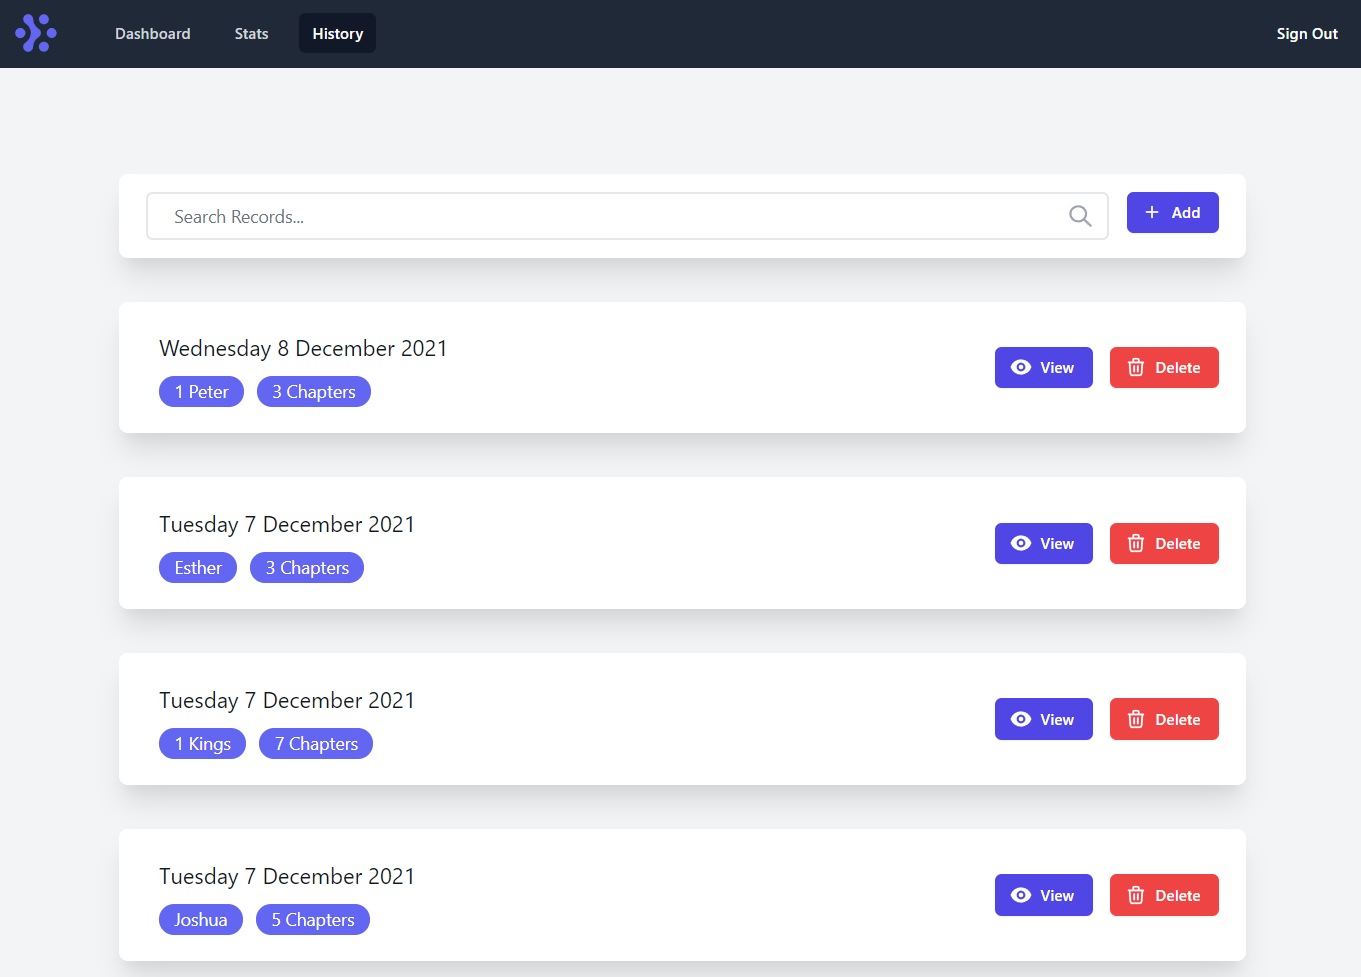
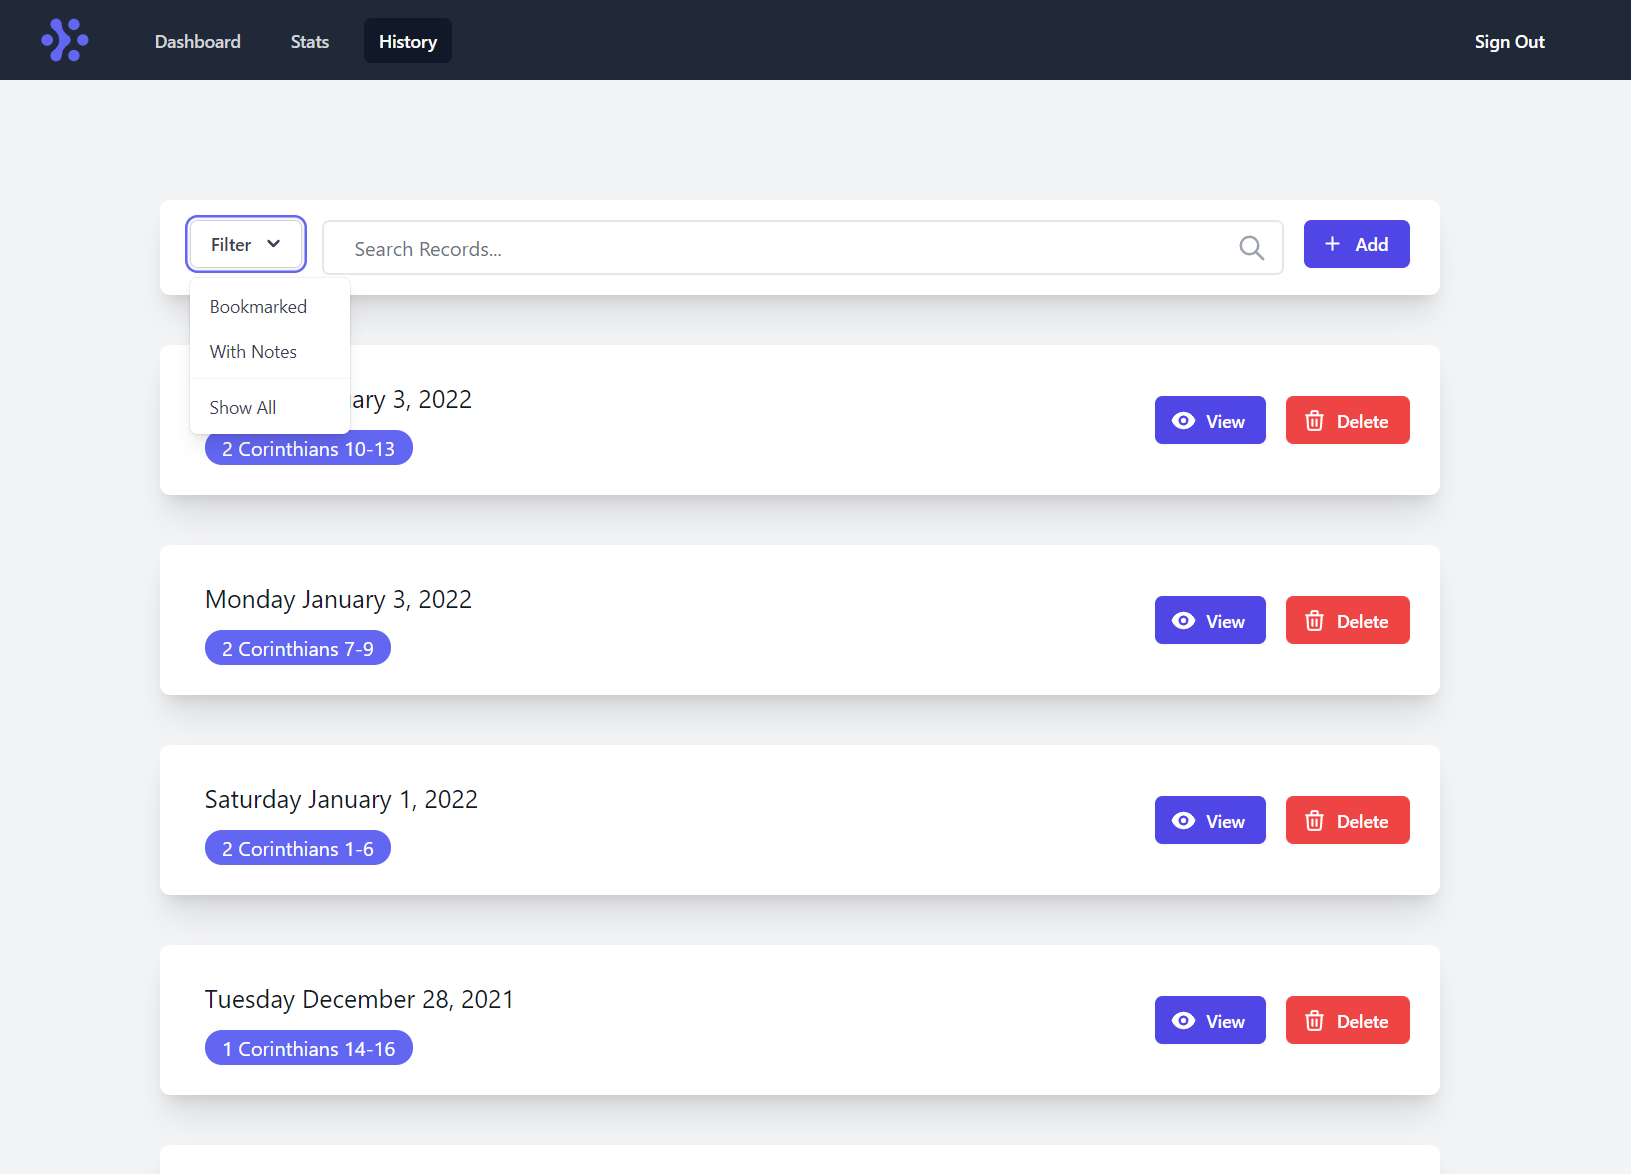
Readme & Report

diff --git a/REPORT.md b/REPORT.md
@@ -1,0 +1,160 @@
+# Verses Web Application
+Hosted Application: http://verses-eu.herokuapp.com/
+Repository: https://github.com/RyanGaudion/Verses-Node
+
+# Introduction
+As a Christian, the Bible is the most important book ever written. We believe the words within it are breathed from God himself. However, the Bible is a huge collection of 66 books split between the Old & New Testament amounting to 783,137 words.`(1)`  For context, this is over 6 times larger than the 122,189 words of Pride & Prejudice.  
+
+In addition to this, the Bible does not have to be read chronologically, making it difficult to keep track of which books and which chapters in those books you have read.  
+
+My application provides a way to keep track of your progress through the Bible and also provides statistics on your reading habits in optimise the experience of reading the entire Bible.
+
+# System Overview
+This application is built using Node.js for the backend connecting to a MongoDB database with EJS, Tailwind CSS & AlpineJS for the views.  
+
+There are 2 main parts of the application, the reading history & the stats:
+
+## History
+The history page shows a list of all records that have been entered into the system. This page is paginated using `skip` and `limit` from mongoose. 
+
+It also provides the ability to filter the page to records that are bookmarked or records that have notes. This is selected via a dropdown which in the backend executes one of 3 mongoose queries each with unique filters. This page also has the ability to search through records which works by setting up a full text index on the Record Model to search against.
+
+From this page you have the ability to "view" and "delete" each record. The view button opens a pre-populated record page which allows values to be updated whereas the delete button submits a unique form which deletes the record after showing a confirmation popup.Finally, this page provides an "Add" button to insert a new record.
+
+![History](./images/HistoryPage.png)
+
+### Record
+
+The Record page is accessible either by adding a new record or editing an existing reading record. This page includes 5 fields, 'Date', 'Book', 'Start Chapter', 'End Chapter' and 'Notes'.
+
+The Date field produces a custom Date picker which was created using AlpineJS and Tailwind CSS.
+In order for the user to enter the Book of the Bible as well as the Start & End Chapter I could have allowed free text entry, however running any type of statistics on this would be difficult. Due to the fact the Bible is immutable, the selection of Books and Chapters for those books is a fixed value that never changes.  
+
+Hence, within my database seeder I pre-populate the database with the names & sizes of each of the books of the Bible. I then created an API endpoint `/api/book/getall` which returns all this information in JSON. From my record page, I then used AlpineJS to create a custom component for selecting the Book, Start Chapter & End Chapter. This component uses the JavaScript "Fetch" method (similar to jQuery.ajax()) in order to fetch the API data without having to reload the page.
+
+This page finally has 2 buttons "Bookmark/Unbookmark" and "Save". This allows the user to bookmark certain records which they found interesting/useful. These records can then be found via the "Bookmarked" filter on the history page. In the backend this simply works by storing a bookmarked boolean on the Record Model. 
+
+![Record](./images/RecordPage.png)
+
+## Stats
+
+The stats page is split into 2 main sections, quick statistics (which provide short summaries such as how many chapters have been read in the last 30 days, or what percentage of the Bible is complete) and the monthly graph (which shows in a chart how many chapters have been read per month for the last year).
+
+These statistics are calculated using multiple complex MongoDB aggregation pipelines and are then displayed on screen via EJS. The graph also uses MongoDB aggregation for its data and then uses AlpineJS and Tailwind CSS to visualise this data into a graph. 
+
+![Stats](./images/StatsPage.png)
+
+## User
+Each reading record is a User model in order that only the current user's records are displayed to them via the history page. The user can create an account via the register page and then sign in to their account via the login page.  
+
+The user's password is not stored in the database directly, but instead uses a database model pre-hook & BCrypt in order to hash the password before it is stored in the database.  
+
+The sign in user is associated to their account via a user session which allows the application to know the current user from within every controller.
+
+![Register](./images/RegisterPage.png)
+
+# Key Design Decisions
+
+## Database Design
+This application consists of a Production and a Development MongoDB database located in MongoDb Atlas. Each of the databases have the following 3 collections:
+ - Books
+ - Records
+ - Users
+
+### Books 
+The books collection stores information about each book in the bible. This information is populated via the seeder using the BooksOfTheBible.json data set.
+
+An example value from this collection can be seen below:
+```
+_id : 619fa78ea7c8a72d28930afd
+number : 1
+name : "Genesis"
+chapters : 50
+verses : 1533
+words : 38262
+author : "Moses"
+genre : "Law"
+testament : "OT"
+```
+
+Currently only `number`, `name`, `chapters` and `testament` are being used, however I included the others values as they would be able to be used in a future version to provide more value to the user. Either via additional statistics or via additional features such as displaying book information.
+
+### Records
+The records collection is used in order to store each individual reading record of a user. It contains all the information required about that record such as the date, book, start & end chapters as well as notes. An example value from this collection can be seen below:
+
+```
+_id : 619fb85e5a57cd2936e64d07
+date : 2021-11-24T00:00:00.000+00:00
+book : "Luke"
+user_id : 619fb8405a57cd2936e64cf8
+chapters : [
+    5, 6, 7, 8
+]
+createdAt : 2021-11-25T16:22:54.596+00:00
+updatedAt : 2021-11-25T16:22:54.596+00:00
+```
+
+The record model has relationships to 2 other collections. First you can see `user_id` which contains the ObjectId of the user that created this record. This is used within the application in order to show the user only records that they created.
+
+There also is a relationship from the record model to the book model which is linked via the name of the book. (In the example above this is "Luke"). This relationship is required for some of the aggregation pipelines used in the stats page, by linking a record to a book we can calculate what percentage of that book has been read by the user.
+
+Finally to note, we store the chapters that the user has read as a single array of values, rather than a "start chapter" and an "end chapter" as seen in the UI. This is to allow additional features in the future where a user may want to select non-sequential chapters from a book.
+
+### Users
+The users collection stores the login information of each user allowing records to be unique to each user. An example value from this collection can be seen below:
+
+```
+_id : 619f48dcb4c93a18ad9a6a4b
+fullname : "Ryan Gaudion"
+email : "rgaudion@gmail.com"
+password : "$2b$10$obPAfIpV0Uoc7lJhglVOWe6llpNGlOv5tk6paF6.5BDYO5.qzmHKe"
+createdAt : 2021-11-25T08:27:08.488+00:00
+updatedAt : 2021-11-25T08:27:08.488+00:00
+```
+
+Here we can see the hashed version of the password rather than a plaintext copy as well as the username of the user (their email address).
+
+Here you can see a class diagram for each of the collections in the database and how they relate. Despite the fact this is a non-relational database, the class diagram is useful in order to visualise how different models relate to each other.
+
+
+![Diagrams](./images/diagrams/ClassDiagram.drawio.png)
+
+## Security and Scalability
+
+### Security
+From a security point of view, the only sensitive information that this application is holding would be the password of a user. In order to reduce the risk of holding this information I have made sure to only hold hash of the password. The hashing is done with BCrypt meaning salting of the password is included as well. Salting protects the password against rainbow table attacks and makes sure even identical passwords give a unique output. Finally, BCrypt is a slow algorithm which is good for security as it increases the time it takes to brute force the password.
+
+There are however many areas in which we could improve the security of the application. One area is by outsourcing the login & sign up process to a 3rd party such as Google or Facebook via OAuth or OpenId. This would eliminate all risk by no longer requiring my application to store user passwords.
+
+Another area of improvement would be for the application to support HTTPS instead of just HTTP which in turn would automatically encrypt traffic in motion to & from our server. The reason this is not enabled is simply due to a limitation of Heroku's free tier.
+
+### Deployment & Scalability
+The deployment of the application takes a DevOps approach by automatically building & releasing the application whenever a merge request is merged to the master branch. This allows for quick iterations of code which can then be tested quickly.
+
+From a scalability point of view our application's MongoDB database is already scaled horizontally across 3 nodes within our eu deployment region using sharding.`(2)` Sharding increases throughput of our databases but distributing our data across multiple nodes. However, this is not the only type of scaling our database can do. If this application was to move to production, I would recommend that Cross-Region replication was enabled in order to provide data closer to customers internationally. `(3)`
+
+Another part of the application that would require scaling would the Node.js application itself. Currently there is 1 instance of this available (hosted in heroku) however in order to reduce load times for user's internationally or allow more customers to visit the site, the application would need to scale. Horizontal scaling is usually cheaper however does raise one concern with the current architecture. If this application was to scale horizontally (across multiple instances) I would need a way to centralise user sessions so that every instance can access these. I have 2 ways I could do this, either by load balancing the instances (and have the load balancer store the sessions) or by storing the sessions in a database. 
+
+One way to solve the scalability issue is to move to a serverless design. This would mean re-architecturing the app to only include API endpoints but by doing this I could store the site itself as a static file (in something like an S3 bucket) and have the background logic run as serverless functions (for example AWS lambda). Both S3 buckets & serverless functions combined with MongoDB cross-region replication would provide not only a highly scalable application but also would reduce the cost per user drastically.
+
+# Conclusion and Reflection
+On reflection, this prototype application includes all the features I set out to include plus more (bookmarking & notes). It fulfills its original goal of allowing me to track my progress through the Bible.
+
+However, after extensively using this application for the past month I have seen many usability issues with the application (especially on mobile devices). The application is barely mobile responsive and shows weird behavior on smaller devices. 
+
+Due to the usability issues as well as the lack of design consistency, I have created a new branch in the GitHub Repository to work on the user interface. These changes won't be deployed with this prototype however you can see below a first draft of the redesigned UI:
+
+![New Design 1](./images/NewDesign1.jpg)
+![New Design 2](./images/NewDesign2.jpg)
+
+
+Need a diagram in System Overview
+strongly justified.
+critical Reflection & Critical Insights
+
+
+
+# References
+1. Dexter, Allison. “How Many Words Are in the Bible?” Word Counter, https://wordcounter.io/blog/how-many-words-are-in-the-bible/.
+2. MongoDB. “How to Scale MongoDB.” MongoDB, https://www.mongodb.com/basics/scaling.
+3. MongoDB. “New to MongoDB Atlas: Cross-Region Replication, New Instance Sizes | MongoDB Blog.” MongoDB, 2017, https://www.mongodb.com/blog/post/new-to-mongodb-atlas-cross-region-replication-new-instance-sizes.

diff --git a/README.md b/README.md
@@ -10,9 +10,16 @@ The application is built using Node.js using the express.js framework. The UI us
 The application uses an MVC design with 2 types of controllers. Normal controllers which return a view with data and api controllers which return only JSON objects in order to allow AJAX on some of the pages.
 
 ## Run the application
-In order to run the application, run:
+In order to run the application for development run the following commands. (Dev differs from production by the fact it sets up a TailwindCSS watcher, meaning any changes to the UI will automatically update the output Tailwind CSS file):
 
-`npm install` and then `npm run dev-purge` (the purge command will make sure tailwind css has the correct css in its output file).
+ - `npm install` and then `npm run dev` 
+ 
+In order to run production locally, use:
+
+- `npm install` and then `npm run prod`
+
+Finally used by Heroku:
+- `npm run start`
 
 # Screenshots
 
